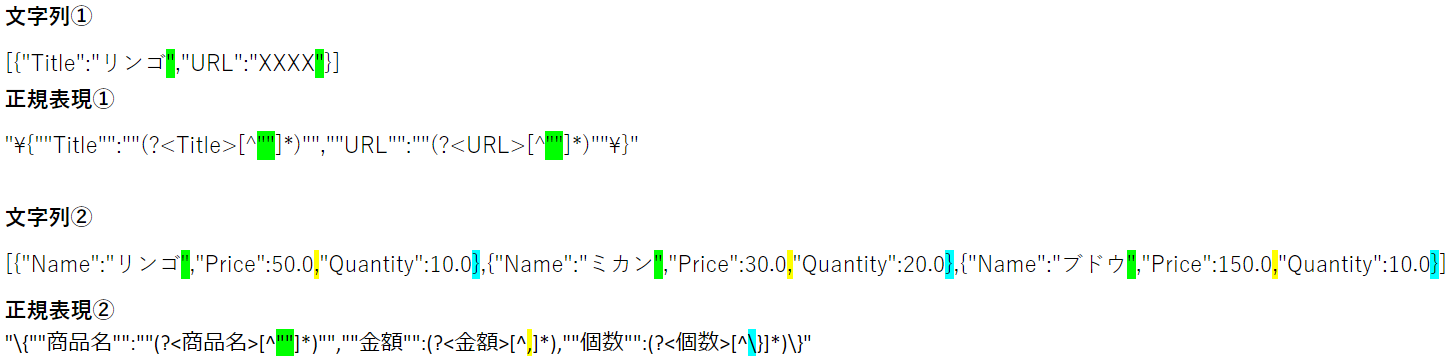
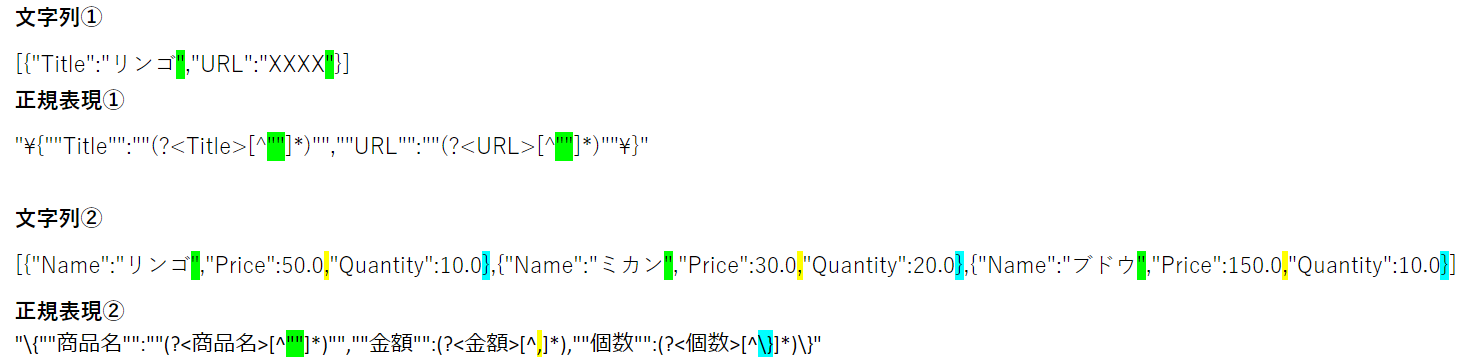
正規表現の文章と画像、ライセンス文章を修正

diff --git a/articles/powerapps/Send_data_from_automate_to_apps.md b/articles/powerapps/Send_data_from_automate_to_apps.md
@@ -41,11 +41,7 @@ SharePointのリストに格納されている商品名、金額、個数の3列
 
 #### 必要なライセンス
 
-今回作成するフローではプレミアム コネクタを使用するため、以下のいずれかのライセンスが必要です。  
-
-- Power Automate per user
-- Power Automate per flow
-- Power Automate per user with attended RPA
+今回作成するフローではプレミアム コネクタを使用するため、 [PowerAppsの有償ライセンス](https://powerapps.microsoft.com/ja-jp/pricing/)が必要です。  
 
 #### Power Automate の説明
 
@@ -95,7 +91,7 @@ SharePointのリストに格納されている商品名、金額、個数の3列
 標準コネクタでは「応答」アクションの代わりに「PowerApp または Flow に応答する」アクションを使用します。
 フロー作成手順についてはプレミアムコネクタの説明の１～５までは同様です。その続きは以下の手順になります。
 6. 「データ操作＞ JSON の解析」のアクションを追加します。「サンプルから生成」に手順５の実行結果を入力します。
-7. 「データ操作＞選択」のアクションで手順６の結果を文字列に変換します。今回は、商品名、金額、個数の値が欲しいため、それらの値をマップの内容とします。このときにマップのキーの値を英語で記載することに注意してください。後にPower Appsで受け取った文字列をMatchAll関数で解析する際に日本語判定ができないためです。
+7. 「データ操作＞選択」のアクションで手順６の結果を文字列に変換します。今回は、商品名、金額、個数の値が欲しいため、それらの値をマップの内容とします。このときにマップのキーの値を英数字や記号等の半角文字で記載することに注意してください。後にPower Appsで受け取った文字列をMatchAll関数で解析する際に日本語判定ができないためです。
 8. 「PowerApp または Flow に応答する」のアクションで商品リストの情報を Power Apps に送信します。
 パラメータとして名称には任意の値、式には「出力」（手順７の出力結果）を選択します。その際に、「出力」という動的なコンテンツが出てこない場合があります。その時は、以下の画像のように式で（）を挿入してから動的なコンテンツに戻ることで「出力」という動的なコンテンツが出てきます。
 
